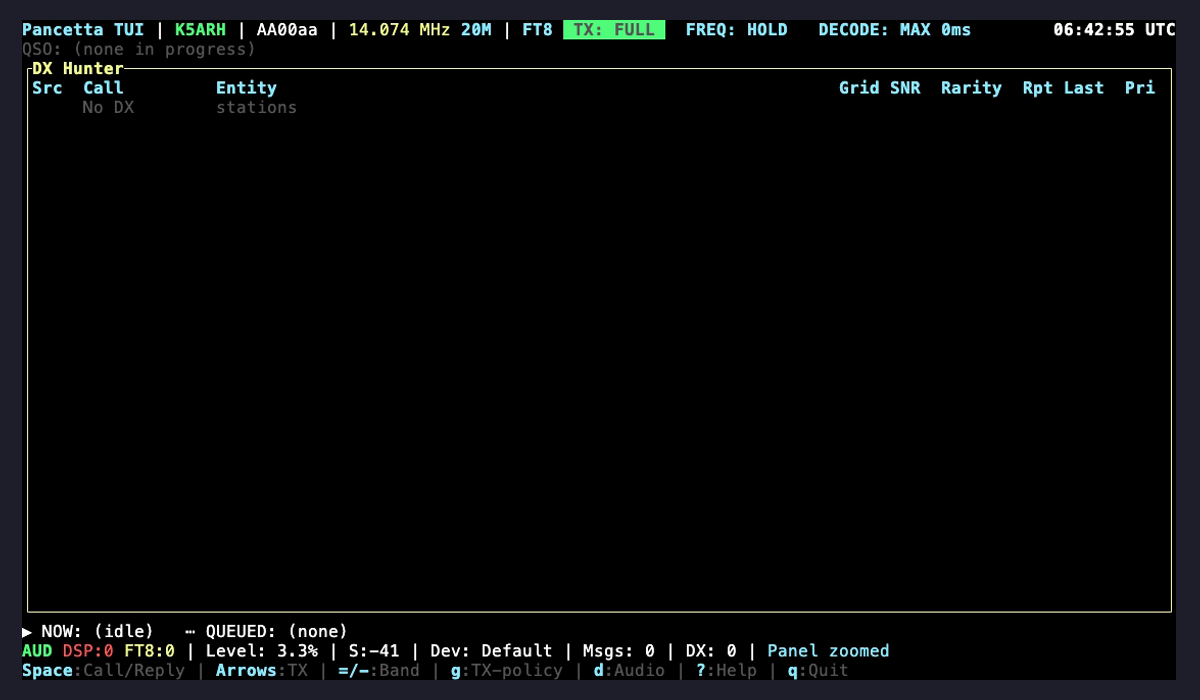
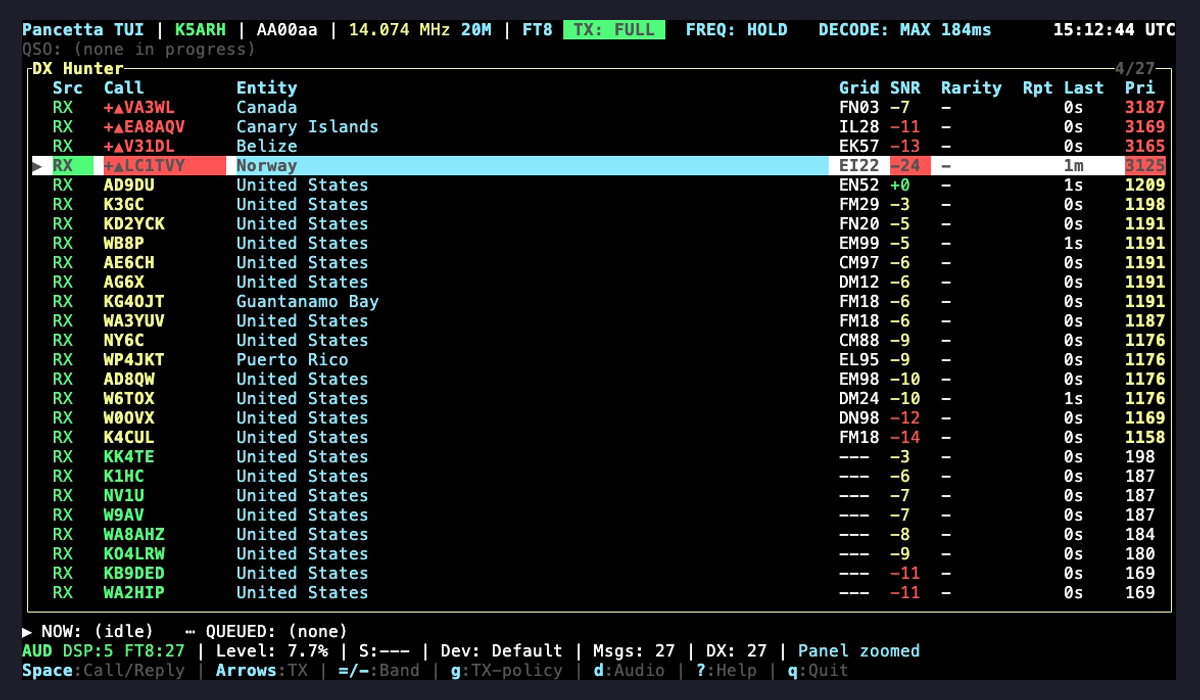
fix(replay): interleave feed audio to input_channels so --replay decodes
Codex review of #263, P1 — and the root cause of the long-standing
"--replay never produces a decode" mystery documented in
.tapes/demo.tape.

`coordinator/dsp.rs` unconditionally treats every buffer arriving on
`audio_to_dsp_tx` as interleaved multi-channel frames and extracts
channel 0 with `samples.chunks(input_channels).map(|ch| ch[0])`. That is
exactly right for a real cpal capture stream — `[audio] input_channels`
defaults to 2 because most rig CODECs are 2-channel. The replay feeder,
however, sent genuinely mono chunks, so DSP threw away every second REAL
sample while still treating the survivors as covering the same
wall-clock span: the decoder saw the audio at half its true sample rate,
every tone an octave up and every symbol half length. No FT8 decode is
possible through that, which is why the prior investigations — feed
pacing (fixed), grace period (fixed), decode-effort ceiling (ruled out)
— never moved the needle.

Fix it at the source: `interleave_mono` duplicates each mono sample
across `input_channels` before the chunk is sent, so DSP's existing
extraction recovers the original stream byte-for-byte. dsp.rs is
deliberately untouched — its de-interleave is the live-audio contract,
and special-casing it there would make synthetic sources diverge from
real hardware. Pacing stays in mono frames, so real-time cadence is
unchanged. Unit tests pin the round-trip against a copy of dsp.rs's
extraction, and assert the raw-mono case loses half its samples.
[…]

diff --git a/pancetta/src/coordinator/replay.rs b/pancetta/src/coordinator/replay.rs
@@ -95,6 +95,42 @@ pub(crate) fn replay_chunk_deadline(samples_sent: u64, sample_rate: u32) -> Dura
     Duration::from_nanos(nanos.min(u64::MAX as u128) as u64)
 }
 
+/// Expand a mono chunk into the interleaved multi-channel framing the DSP
+/// stage expects, by duplicating each sample across all `channels` channels.
+///
+/// The DSP stage (`coordinator/dsp.rs`) unconditionally treats every buffer
+/// arriving on `audio_to_dsp_tx` as interleaved `[c0, c1, c0, c1, ...]` frames
+/// and extracts channel 0 with
+/// `samples.chunks(input_channels).map(|ch| ch[0])` -- that is what a real
+/// `cpal` capture stream delivers when `[audio] input_channels = 2` (the
+/// project default; most rig CODECs are 2-channel).
+///
+/// The replay feeder produces genuinely mono audio. Handing that stream to the
+/// DSP stage raw made it discard every second *real* sample while still
+/// treating the survivors as spanning the same wall-clock interval: the
+/// decoder saw audio at half the true sample rate, i.e. every tone shifted an
+/// octave up and every symbol half as long. No FT8 decode is possible through
+/// that corruption regardless of timing, decode effort, or signal quality --
+/// which is exactly what `--replay` exhibited (`Msgs: 0`, forever).
+///
+/// Mimicking the hardware framing here, rather than special-casing replay
+/// inside `dsp.rs`, keeps the DSP stage's live-audio contract untouched and
+/// makes replay's output byte-for-byte what a real 2-channel capture of the
+/// same mono content would look like.
+pub(crate) fn interleave_mono(mono: &[f32], channels: u16) -> Vec<f32> {
+    let channels = channels.max(1) as usize;
+    if channels == 1 {
+        return mono.to_vec();
+    }
+    let mut out = Vec::with_capacity(mono.len() * channels);
+    for &sample in mono {
+        for _ in 0..channels {
+            out.push(sample);
+        }
+    }
+    out
+}
+
 /// How long to wait, from `now`, until the next true UTC FT8 slot boundary
 /// (:00/:15/:30/:45). Replayed audio is a real off-air capture naturally
 /// aligned to slot boundaries when it was recorded; the live pipeline's
@@ -109,7 +145,8 @@ pub(crate) fn replay_preroll_wait(now: chrono::DateTime<chrono::Utc>) -> Duratio
 impl super::ApplicationCoordinator {
     /// Feed every `.wav` file in `replay_dir` (in filename order) into the
     /// pipeline as if it were live audio: resampled to the configured audio
-    /// sample rate, chunked to the configured buffer size, and paced in
+    /// sample rate, chunked to the configured buffer size, interleaved to
+    /// `[audio] input_channels` (see [`interleave_mono`]), and paced in
     /// real time via the same `audio_to_dsp_tx` channel a real `cpal::Device`
     /// or `PANCETTA_STUB_AUDIO` would use. Before the feed loop starts, waits
     /// for the next true UTC slot boundary (see [`replay_preroll_wait`]) so
@@ -133,6 +170,10 @@ impl super::ApplicationCoordinator {
         let config = self.config.read().await;
         let sample_rate = config.audio.sample_rate;
         let buffer_size = config.audio.buffer_size as usize;
+        // The DSP stage de-interleaves against this same setting; the feeder
+        // must therefore emit frames, not bare mono samples. See
+        // [`interleave_mono`].
+        let input_channels = config.audio.input_channels as u16;
         drop(config);
 
         info!(
@@ -174,7 +215,11 @@ impl super::ApplicationCoordinator {
                 .await;
 
                 let end = (offset + buffer_size).min(samples.len());
-                let chunk = samples[offset..end].to_vec();
+                // Pacing (`offset`, `replay_chunk_deadline`) stays in mono
+                // frames -- one frame is one instant of audio regardless of
+                // how many channels carry it -- while the buffer handed to the
+                // DSP stage is the interleaved expansion of those frames.
+                let chunk = interleave_mono(&samples[offset..end], input_channels);
                 offset = end;
 
                 last_timestamp.store(super::now_epoch_ms(), Ordering::Relaxed);
@@ -355,6 +400,62 @@ mod tests {
             REPLAY_GRACE_PERIOD >= Duration::from_secs(17),
             "grace period {REPLAY_GRACE_PERIOD:?} is shorter than one slot plus the decode ceiling"
         );
+    }
+
+    /// The exact de-interleave `coordinator/dsp.rs` performs on every buffer
+    /// it receives. Duplicated here (rather than imported) so this test pins
+    /// the *contract* between the two stages: whatever the feeder emits, this
+    /// operation must recover the original mono stream unchanged.
+    fn dsp_extract_channel_zero(buffer: &[f32], input_channels: u16) -> Vec<f32> {
+        if input_channels > 1 {
+            buffer
+                .chunks(input_channels as usize)
+                .map(|ch| ch[0])
+                .collect()
+        } else {
+            buffer.to_vec()
+        }
+    }
+
+    #[test]
+    fn interleave_mono_round_trips_through_dsp_channel_extraction() {
+        let mono: Vec<f32> = (0..64).map(|i| i as f32 * 0.01).collect();
+
+        // The regression: feeding raw mono while the DSP stage de-interleaves
+        // against input_channels=2 silently drops every second real sample.
+        let raw_mono_through_dsp = dsp_extract_channel_zero(&mono, 2);
+        assert_eq!(
+            raw_mono_through_dsp.len(),
+            mono.len() / 2,
+            "raw mono handed to a 2-channel DSP stage must lose half its samples \
+             -- this is the bug the interleaving fix exists to prevent"
+        );
+
+        // With interleaving, every channel count round-trips exactly.
+        for channels in [1u16, 2, 4, 8] {
+            let framed = interleave_mono(&mono, channels);
+            assert_eq!(framed.len(), mono.len() * channels as usize);
+            assert_eq!(
+                dsp_extract_channel_zero(&framed, channels),
+                mono,
+                "input_channels={channels} must round-trip the mono stream unchanged"
+            );
+        }
+    }
+
+    #[test]
+    fn interleave_mono_duplicates_each_sample_across_every_channel() {
+        assert_eq!(
+            interleave_mono(&[1.0, 2.0, 3.0], 2),
+            vec![1.0, 1.0, 2.0, 2.0, 3.0, 3.0]
+        );
+        // Mono config is a pass-through, not a copy of a copy.
+        assert_eq!(interleave_mono(&[1.0, 2.0], 1), vec![1.0, 2.0]);
+        // A zero channel count is rejected by config validation
+        // (pancetta-config/src/audio.rs), but must not panic or produce an
+        // empty buffer if it ever reaches here.
+        assert_eq!(interleave_mono(&[1.0, 2.0], 0), vec![1.0, 2.0]);
+        assert!(interleave_mono(&[], 2).is_empty());
     }
 
     #[test]

diff --git a/wiki/pages/audio-channel-framing.md b/wiki/pages/audio-channel-framing.md
@@ -1,0 +1,65 @@
+---
+id: audio-channel-framing
+title: What will bite you about audio channel framing into the DSP stage?
+kind: gotcha
+status: current
+maintainer: agent
+sources:
+  - pancetta/src/coordinator/dsp.rs
+  - pancetta/src/coordinator/audio.rs
+  - pancetta/src/coordinator/replay.rs
+verified:
+  commit: docs/readme-visual-identity
+  date: 2026-08-21
+links:
+  - modes
+---
+Every buffer sent on `audio_to_dsp_tx` is **interleaved multi-channel frames**,
+not mono samples. `coordinator/dsp.rs` de-interleaves unconditionally against
+`[audio] input_channels` (default **2**):
+
+```rust
+let mono: Vec<f32> = if input_channels > 1 {
+    samples.chunks(input_channels as usize).map(|ch| ch[0]).collect()
+} else { samples };
+```
+
+That is correct for a real `cpal` capture stream (rig CODECs are typically
+2-channel, right channel near-silent). It is silently *destructive* for any
+synthetic producer that emits bare mono: DSP keeps every Nth real sample and
+still treats the survivors as covering the same wall-clock interval, so the
+decoder sees the audio at `1/N` of its true sample rate — every tone shifted
+up, every symbol shortened. FT8 cannot decode through that at all.
+
+## Symptom
+
+The pipeline looks completely healthy — audio flowing, waterfall painting,
+windows firing at exactly `slot_boundary + 13s`, decode completing well inside
+its budget — and reports `0 messages decoded` forever. Nothing in the logs
+points at audio, because nothing about audio is *failing*; it is being
+resampled by a factor of two by an operation that thinks it is throwing away
+an idle channel.
+
+## A real instance of this bug (fixed 2026-08-21, PR #263)
+
+`--replay` never produced a single decode since it was written. Multiple prior
+investigations chased and fixed real but insufficient causes (feed-pacing
+drift from a truncated millisecond timer; a grace period shorter than the 13s
+decode phase) and explicitly ruled out others (the per-slot decode-time
+ceiling), documenting the root cause as unknown. It was this: the replay
+feeder handed `dsp.rs` mono. Fix: `interleave_mono` in
+`pancetta/src/coordinator/replay.rs` duplicates each sample across
+`input_channels` before sending. `assets/demo-wav` went from 0 decodes to 26
+with no other change.
+
+## If you add an audio producer
+
+Anything that feeds `audio_to_dsp_tx` must emit `input_channels`-interleaved
+frames. Note that **`PANCETTA_STUB_AUDIO` (`coordinator/audio.rs`) still emits
+bare mono** and therefore still generates its 1500 Hz tone at an effective
+3000 Hz — harmless for its "is the path alive" purpose, deliberately left
+alone, and exactly the trap to avoid copying.
+
+Fix framing at the producer, not in `dsp.rs`: the de-interleave there is the
+live-audio contract and special-casing it would make synthetic sources diverge
+from real hardware behavior.

diff --git a/.tapes/README.md b/.tapes/README.md
@@ -20,11 +20,20 @@ Output lands in `assets/`.
 | `feature-decode-effort.tape` | `assets/feature-decode-effort.gif` | A short, decode-independent feature clip: cycling the decode-effort preset ring with `e` and the title-bar `DECODE: <PRESET> <n>ms` chip updating live. |
 
 All three drive `pancetta --replay assets/demo-wav`, so every asset comes
-from a real run with real off-air audio flowing through the pipeline. That
-corpus does **not** produce an FT8 decode under `--replay`; see the trailing
-"HONEST DISCLOSURE" comment block in `demo.tape` for what has been measured
-and ruled out. Don't write README copy that implies these assets show a
-captured decode.
+from a real run with real off-air audio flowing through the pipeline.
+
+The corpus decodes only on its **last** slot: `live_now.wav` yields ~26
+messages in one window, while the four numbered captures ahead of it are
+documented non-decoding content (`assets/demo-wav/README.md`). So the first
+~60s of any replay run correctly shows empty decode panels and the payoff
+lands at the end — `demo.gif` captures that arrival, and `screenshots.tape`
+waits for it (`Wait+Screen /Msgs: [1-9][0-9]/`) before capturing. Sizing any
+new tape's timing off a fixed sleep instead will capture empty panels.
+
+(Until PR #263 the corpus decoded *nothing* under `--replay`. Root cause: the
+replay feeder emitted bare mono while the DSP stage de-interleaved against
+`[audio] input_channels`, silently halving the effective sample rate. See
+`demo.tape`'s trailing comment block.)
 
 ## CI
 

diff --git a/wiki/INDEX.md b/wiki/INDEX.md
@@ -10,6 +10,7 @@
 - [Why is QSO logging ADIF-first with opt-in per-QSO uploads?](pages/logging-uploads.md) — QSO logging is an ADIF-first hybrid: `~/.pancetta/qsos.adi` is the durable,
 - [Why is the TUI shaped the way it is?](pages/tui.md) — The TUI was redesigned (2026-07-03) into four task-focused activity views
 - [What will bite you about the additive-only remote gateway?](pages/additive-only-gateway.md) — The remote gateway is wired **additive-only**: every feed to it is a *new* bus
+- [What will bite you about audio channel framing into the DSP stage?](pages/audio-channel-framing.md) — every buffer on `audio_to_dsp_tx` is interleaved frames, not mono; DSP de-interleaves against `[audio] input_channels` and a mono producer silently halves the effective sample rate.
 - [What will bite you about the armed-TX gate?](pages/fail-closed-arm-gate.md) — The remote-TX arm gate **fails CLOSED**: on a poisoned lock (or any verify
 - [What will bite you about the half-duplex parity rule?](pages/parity-rule.md) — FT8 is deaf while transmitting, so **every concurrent active QSO must transmit
 - [What's the PR review convergence policy?](../docs/DECISIONS/2026-08-07-pr-review-convergence-policy.md) — Four-tier round schedule per reviewer: rounds 1-5 fix everything, 6-15 ticket new P2-or-lower, 16-25 ticket P1 too unless critical/blocking, round 25 is a hard stop — so PRs converge instead of oscillating.

diff --git a/README.md b/README.md
@@ -20,8 +20,10 @@ Pancetta is an FT8 station that lives in your terminal.
 
 *`pancetta --replay` feeding archived WAV captures through the real pipeline:
 startup, band monitoring, the TX-placement scorer ranking candidate offsets,
-and a clean self-shutdown when the recording ends. No decode lands in this
-particular capture — for measured decode performance see
+a burst of real FT8 decodes filling Band Activity when the capture reaches
+its decodable slot, and a clean self-shutdown when the recording ends. One
+recording of one small corpus proves nothing about recall — for measured
+decode performance see
 [`docs/decoder-comparison.md`](docs/decoder-comparison.md).*
 
 ## The pitch
@@ -69,9 +71,9 @@ encode, decode, LDPC, CRC, and OSD.
 Every capture below — and the GIF further down, and the hero GIF above — was
 recorded on a development host with `pancetta --replay`, feeding archived
 off-air WAV captures through the real pipeline (see [`.tapes/`](.tapes/)).
-Real audio, real panels; no decode lands in this particular corpus, so the
-decode-driven tables read empty and these show layout, chrome and controls
-rather than a worked band.
+Real audio, real decodes, real panels — no mockups. The corpus is one short
+recording, so treat these as a tour of the interface, not a performance
+claim.
 
 | | |
 |---|---|

diff --git a/CHANGELOG.md b/CHANGELOG.md
@@ -62,6 +62,16 @@ and this project adheres to [Semantic Versioning](https://semver.org/spec/v2.0.0
 
 ### Fixed
 
+- `--replay` now actually decodes. The replay feeder emitted bare mono samples
+  while the DSP stage de-interleaves every incoming buffer against `[audio]
+  input_channels` (default 2) — so it discarded every second real sample and
+  treated the survivors as covering the same wall-clock span, halving the
+  effective sample rate and making an FT8 decode impossible regardless of
+  timing, decode effort, or content. The feeder now interleaves each sample
+  across `input_channels`, mimicking a real capture stream. A `--replay` run
+  over `assets/demo-wav` goes from 0 decodes to 26, and the README demo GIF
+  and screenshots were re-rendered accordingly (the DX Hunter priority table
+  is populated for the first time).
 - `--replay` combined with `--no-audio` is now rejected at CLI parse time
   instead of hanging forever (the `no_audio` short-circuit in
   `start_audio_pipeline` precedes the replay branch, so no feeder was spawned
